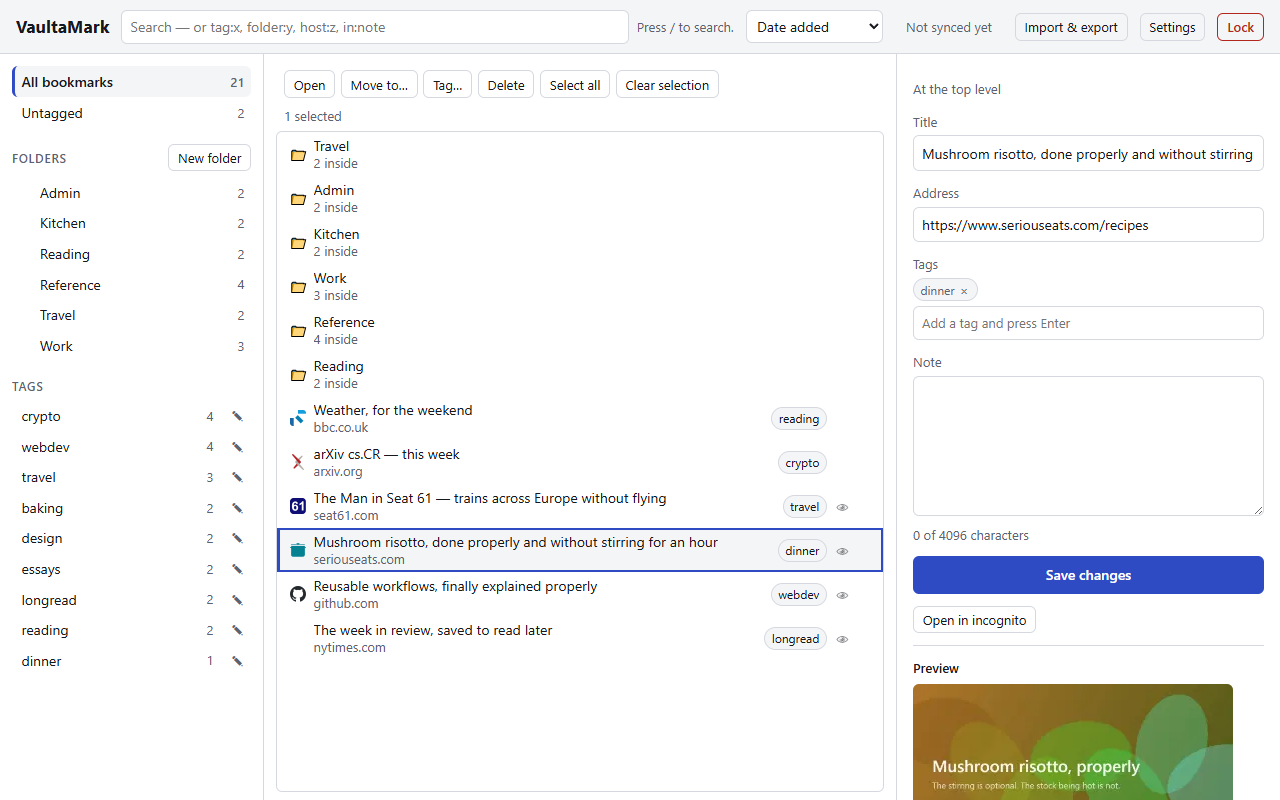
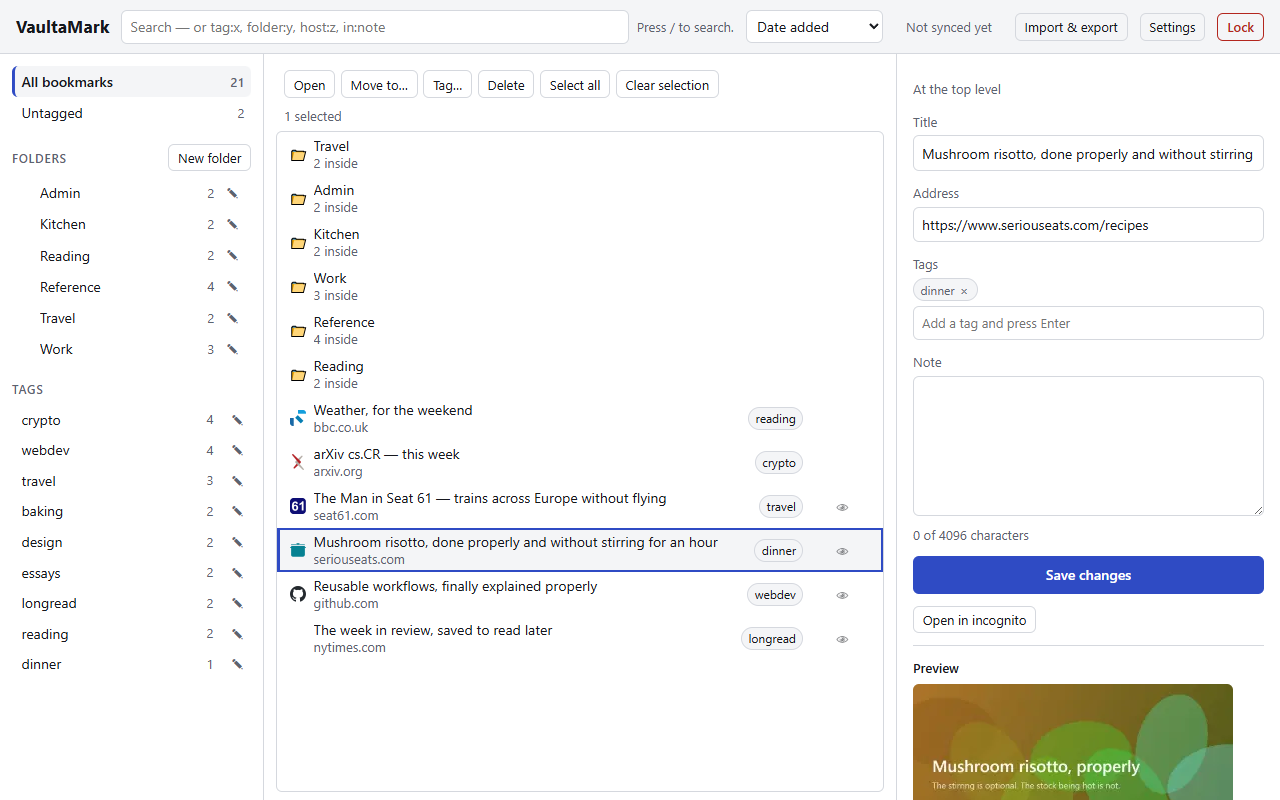
docs: the extension is in the Store, so stop saying it is not
README led with "Status: 1.0.0, feature-complete" and told anyone reading it that installing meant
building from source, because the Store submission was still pending when that paragraph was
written. It went in on 2026-08-15 and was published on 2026-08-16. The link now sits where the
paragraph used to apologise for its absence, with a version badge beside the other three, and the
Install section offers the Store first and the source build second — which is the order a reader
needs them in, not the order they became true.

Three of Phase 13's definition-of-done items were recorded as blocked and are not any more, all by
the same decision (D36, 2026-08-15): the privacy-policy URL now resolves from Pages, `main` carries
the rulesets that the Free plan refused on a private repository, and v1.0.0 is tagged and released.
The fourth — the first automated Store upload — is no longer blocked either, because the API's
inability to *create* an item stopped mattering the moment the item existed. Each keeps the record
of what it was blocked on, since a checklist that only shows the answer teaches nothing.

RELEASE §6.1 says the one-time manual upload is spent. STORE_LISTING notes that the short
description rewritten on 2026-08-18 reaches the listing with the next package rather than waiting
on one indefinitely.

Screenshots 1 and 3 retaken: folder rows in the sidebar gained the pencil that tag rows have had
[…]

diff --git a/PLAN.md b/PLAN.md
@@ -1458,9 +1458,10 @@ a Chrome Web Store submission.
   differentiators, single-purpose statement, and a per-permission justification string for each
   requested and optional permission (draft text lives in `docs/STORE_LISTING.md`).
 - `docs/PRIVACY.md` published (GitHub Pages or a raw-file URL) and linked from the Store listing.
-  **Not done — the maintainer chose (2026-08-14) to leave the hosting decision open.** The document
-  is finished; there is nowhere private-and-free to serve it from, and the three ways out are in
-  RELEASE §8. This blocks Store submission and nothing else.
+  **Done 2026-08-15**, by D36: the repository is public and Pages serves the document from
+  `main`/`docs` at <https://zyndata.github.io/vaulta-mark/PRIVACY>. It had stood open since
+  2026-08-14 by the maintainer's choice, blocking Store submission and nothing else, with the three
+  ways out written up in RELEASE §8; publishing the repository took the first of them.
 - README completed: badges (CI, release, license), install-from-Store link, build-from-source
   instructions, the reproducibility note (how to verify the published zip's hash against a local
   build), security policy link, and the differentiators up top.
@@ -1507,21 +1508,27 @@ a Chrome Web Store submission.
       an ancestor of `main`, and `main` is four phases behind `dev` until the release merge. A dry
       run that passed the ancestry check today would be building Phase-0 code.
 - [ ] `workflow_dispatch` with `publish: true` uploads a draft to the Store (verified once the item
-      exists). — the Store item does not exist; the first upload is manual by API design
-      (RELEASE §6.1). Blocked on the privacy-policy URL, which blocks submission.
+      exists). — the item exists now (`nfcfgnaefnkpmoiagnamdacpohifncpl`, uploaded by hand
+      2026-08-15, published 2026-08-16), so the API's create-versus-update limitation no longer
+      blocks anything and this is verified by the first automated upload, which is 1.1.0. The
+      credentials themselves were exercised against the live item on 2026-08-16 by the
+      `check_credentials` dispatch (RELEASE §6.5).
 - [x] All four Store secrets documented end-to-end in `docs/RELEASE.md`, with screenshots-in-words
       for each Google Cloud step. — RELEASE §6.1–§6.5, including the two flags without which Google
       returns no refresh token and why a Testing-status consent screen expires one after 7 days.
-- [ ] `main` is protected exactly as `docs/BRANCH_PROTECTION.md` specifies. — **cannot be done on
-      this repository.** Measured 2026-08-14: both the rulesets API and the classic branch-protection
-      API answer `403 Upgrade to GitHub Pro or make this repository public`, so the settings are not
-      reachable from the UI either. BRANCH_PROTECTION.md had claimed §1–§4 "apply unchanged" while
-      private and has been corrected, with the manual habits that stand in for them. This unblocks
-      the day the repository is published or the plan is upgraded — the same decision the
-      privacy-policy URL waits on.
-- [ ] v1.0.0 tagged and released. — deferred to the maintainer (2026-08-14). `dev` is at 1.0.0 with
-      the CHANGELOG finalized and `[Unreleased]` empty; four manual passes from earlier phases are
-      still unrun (DEVELOPMENT §5.2–§5.5). The commands are RELEASE §4 steps 5–8.
+- [x] `main` is protected exactly as `docs/BRANCH_PROTECTION.md` specifies. — **done 2026-08-15**,
+      by the same decision that settled the privacy-policy URL. It genuinely could not be done
+      before: measured 2026-08-14, both the rulesets API and the classic branch-protection API
+      answered `403 Upgrade to GitHub Pro or make this repository public`, and the settings were not
+      reachable from the UI either. Rulesets for `main`, `dev` and `release-tags` are applied with
+      empty bypass lists. Applying them caught a Phase-0 error: "Require linear history" was
+      documented ✅ and would have rejected the `--no-ff` release merge — a claim nobody could test
+      while nobody could turn it on.
+- [x] v1.0.0 tagged and released. — **done 2026-08-16.** `main` at `7ce1712`, annotated tag
+      `v1.0.0`, `release.yml` green on its first real run, and a GitHub Release carrying
+      `vaulta-mark-1.0.0.zip` (170,440 B) and `SHA256SUMS`. Published to the Chrome Web Store the
+      same day. Four manual passes from earlier phases remain unrun (DEVELOPMENT §5.2–§5.5); they
+      were never gates on the tag.
 
 **Git:** direct commits on `dev`, tag `phase-13-done`. Then the release itself:
 `git checkout main && git merge --no-ff dev -m "release: v1.0.0"`, push `main`, and push the

diff --git a/README.md b/README.md
@@ -5,6 +5,7 @@
 [![ci](https://github.com/zyndata/vaulta-mark/actions/workflows/ci.yml/badge.svg?branch=dev)](https://github.com/zyndata/vaulta-mark/actions/workflows/ci.yml)
 [![release](https://img.shields.io/github/v/release/zyndata/vaulta-mark?sort=semver)](https://github.com/zyndata/vaulta-mark/releases)
 [![license: GPL-3.0-only](https://img.shields.io/badge/license-GPL--3.0--only-blue.svg)](LICENSE)
+[![Chrome Web Store](https://img.shields.io/chrome-web-store/v/nfcfgnaefnkpmoiagnamdacpohifncpl?label=chrome%20web%20store)](https://chromewebstore.google.com/detail/nfcfgnaefnkpmoiagnamdacpohifncpl)
 
 VaultaMark is a Manifest V3 Chrome extension that keeps your bookmarks in a password-encrypted vault
 stored **completely outside** Chrome's bookmark and history systems. Chrome never learns those URLs
@@ -13,11 +14,12 @@ window. Nothing leaves your machine unless you explicitly connect your own Googl
 
 **Repository:** <https://github.com/zyndata/vaulta-mark>
 
-**Status: 1.0.0, feature-complete, source published.** Every phase in [PLAN.md](PLAN.md) is built and
-tested, and the source is public under GPL-3.0-only ([PLAN.md §2.5, D36](PLAN.md#25-project--process))
-— for a tool that asks you to trust it with an unrecoverable password, being readable is part of the
-product. What remains is the Chrome Web Store submission itself. The privacy policy is served at
-<https://zyndata.github.io/vaulta-mark/PRIVACY>.
+**Status: published.** VaultaMark is [in the Chrome Web Store][store], every phase in
+[PLAN.md](PLAN.md) is built and tested, and the source is public under GPL-3.0-only
+([PLAN.md §2.5, D36](PLAN.md#25-project--process)) — for a tool that asks you to trust it with an
+unrecoverable password, being readable is part of the product. Every release is built from a tag by
+a GitHub Actions workflow, so the package in the Store and the source in this repository are the
+same thing twice. The privacy policy is served at <https://zyndata.github.io/vaulta-mark/PRIVACY>.
 
 ---
 
@@ -50,11 +52,10 @@ regenerated from a real build by `node scripts/capture-store-screenshots.mjs`.
 
 ## Install
 
-**From the Chrome Web Store:** not yet. The listing is written and its assets are built
-([docs/STORE_LISTING.md](docs/STORE_LISTING.md)); submission is waiting on a publicly hosted privacy
-policy, which needs a decision about publishing this repository. The link lands here when it exists.
+**[Install from the Chrome Web Store][store]** — the ordinary way, and the one that keeps
+itself updated. What the listing says is drafted in [docs/STORE_LISTING.md](docs/STORE_LISTING.md).
 
-**From source**, which is what works today:
+**From source**, if you would rather run something you built yourself:
 
 ```bash
 npm ci
@@ -234,3 +235,5 @@ issue for a security problem — a public report starts the clock for every user
 VaultaMark is a security tool. Copyleft keeps every fork auditable, which is the point: you can read
 what encrypts your bookmarks, build it yourself, and check that the extension you installed is the
 one this source produces ([docs/RELEASE.md](docs/RELEASE.md)).
+
+[store]: https://chromewebstore.google.com/detail/nfcfgnaefnkpmoiagnamdacpohifncpl

diff --git a/docs/STORE_LISTING.md b/docs/STORE_LISTING.md
@@ -41,7 +41,7 @@ retake is a command rather than an afternoon:
 | Screenshots | 1280 × 800 PNG, five of them | `docs/store/screenshot-{1..5}-*.png` |
 | Small promo tile | 440 × 280 PNG | `docs/store/promo-440x280.png` |
 | Marquee promo tile | 1400 × 560 PNG — only needed if the listing is ever considered for featuring | not produced; optional |
-| Short description | ≤ 132 characters | §2 below (129) — **rewritten 2026-08-18, awaiting a package upload** |
+| Short description | ≤ 132 characters | §2 below (129) — rewritten 2026-08-18, reaches the listing with the 1.1.0 package |
 | Detailed description | Leads with the differentiators; states the no-recovery warning; explains both sync tiers | §3 below — one bullet edited 2026-08-18, editable in the dashboard without a package |
 | Category | **Privacy & Security** | chosen 2026-08-15 — see below |
 | Language | English (United States) | fixed |
@@ -86,6 +86,12 @@ part a person recognises in a toolbar.
 | 3 | `screenshot-3-search.png` | `tag:crypto` narrowing the vault, reaching into folders. Light. |
 | 4 | `screenshot-4-sync.png` | Settings: both tiers, Drive disconnected, the quota bar. Light. |
 | 5 | `screenshot-5-no-recovery.png` | Setup step 2 — the no-recovery warning, and the phrase you have to type. Dark. |
+
+**Retaken for 1.1.0: shots 1 and 3, and only those two.** Folder rows in the sidebar gained the
+pencil that tag rows have had since Phase 6, so the two shots showing the sidebar were out of date
+and the other three came back byte-identical from the same script. That is worth knowing about the
+capture: it is deterministic, so a rerun that changes a file is telling you the UI changed, and a
+rerun that changes nothing is not a wasted afternoon.
 
 **Everything in them is invented.** Real, well-known destinations, so the favicons and domains look
 like a person's vault rather than a lorem-ipsum one, with titles, folders, tags and notes written

diff --git a/docs/RELEASE.md b/docs/RELEASE.md
@@ -438,6 +438,11 @@ variable finding its way into a shipped artifact.
    after that can use the automation.
 4. Note the **extension ID** from the dashboard URL — that is `EXTENSION_ID`.
 
+> **Done.** The item is `nfcfgnaefnkpmoiagnamdacpohifncpl`, uploaded by hand on 2026-08-15 and
+> published on 2026-08-16 — so step 3's one-time exception is spent, and **1.1.0 onward goes up
+> through the `publish` job in §7**. The credentials were exercised against the live item before
+> the first automated upload, which is what `check_credentials` is for (§6.5).
+
 ### 6.2 Enable the Chrome Web Store API
 
 In the same Google Cloud project as §5:
